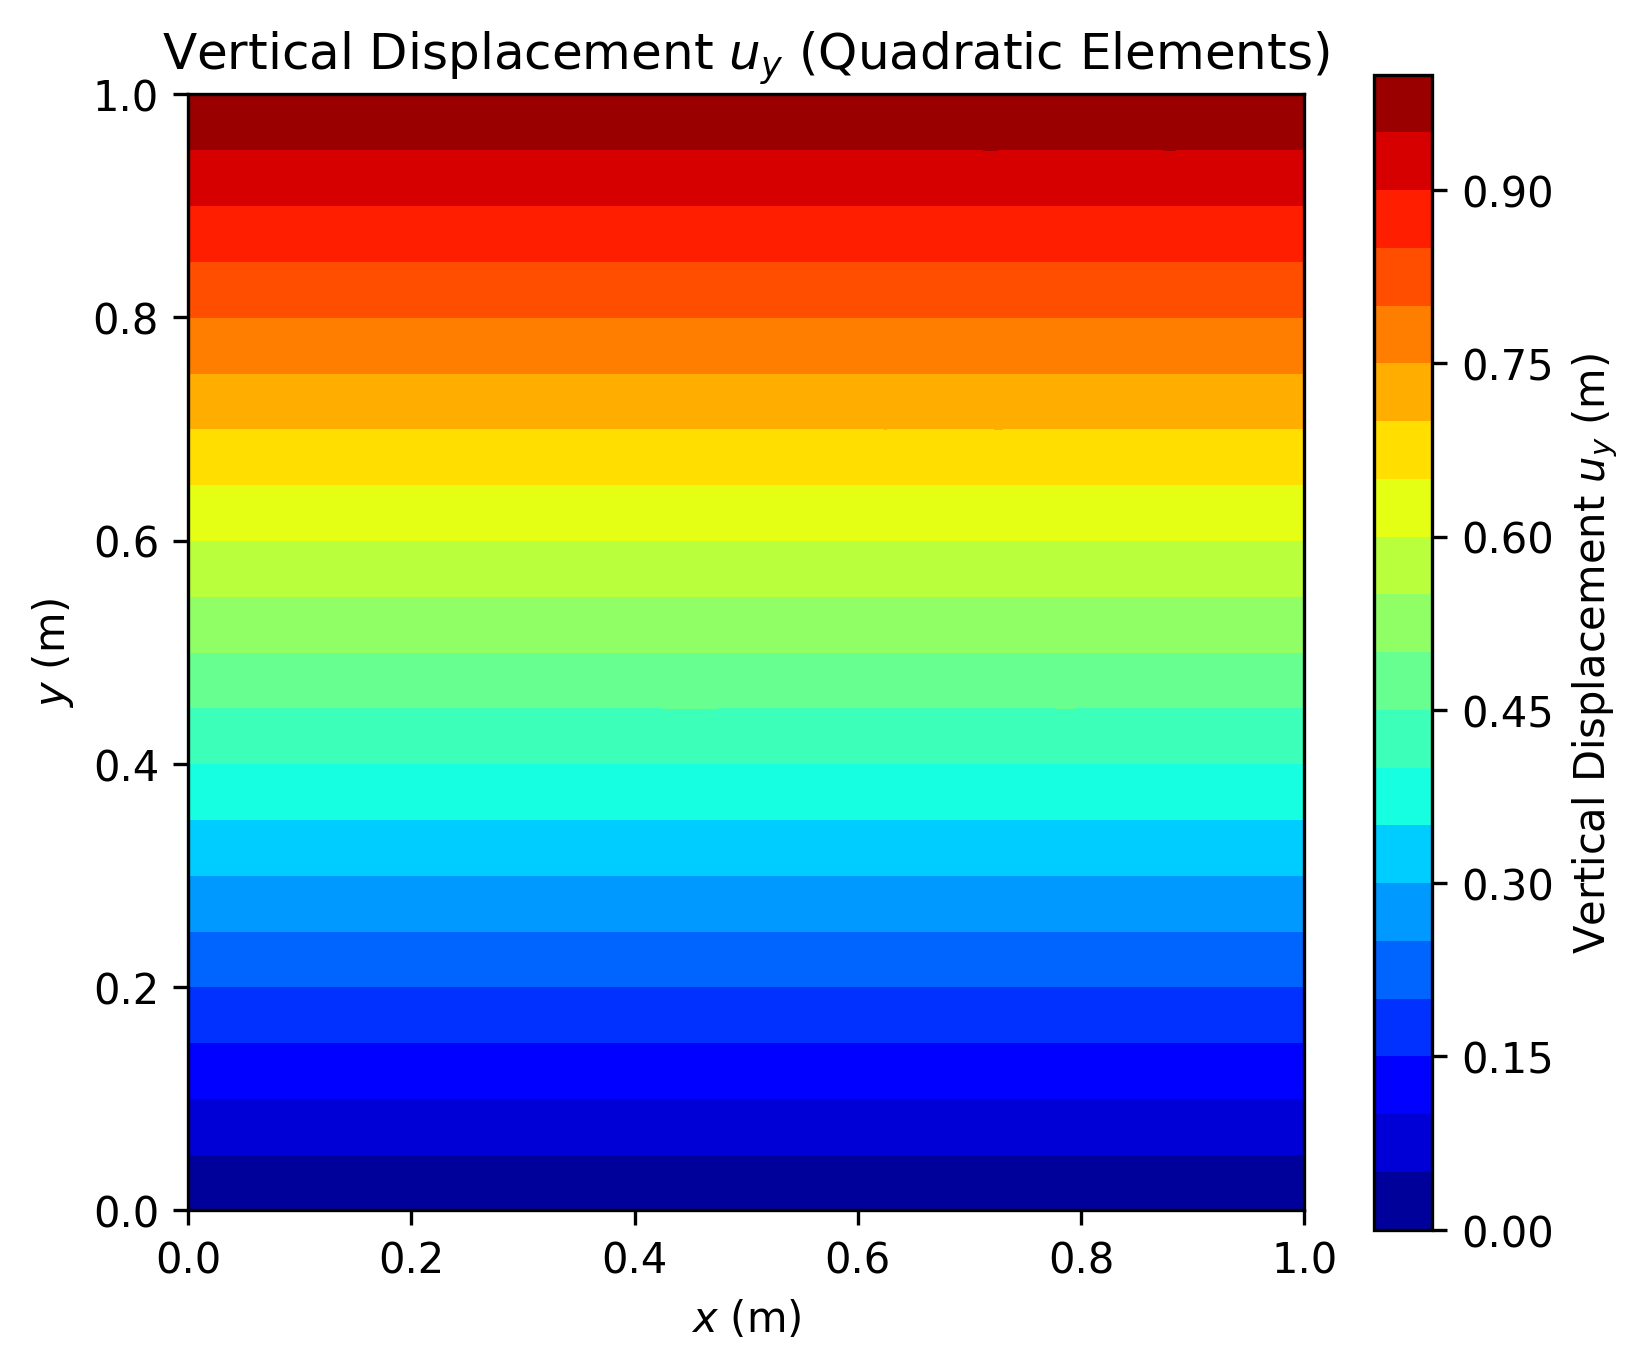
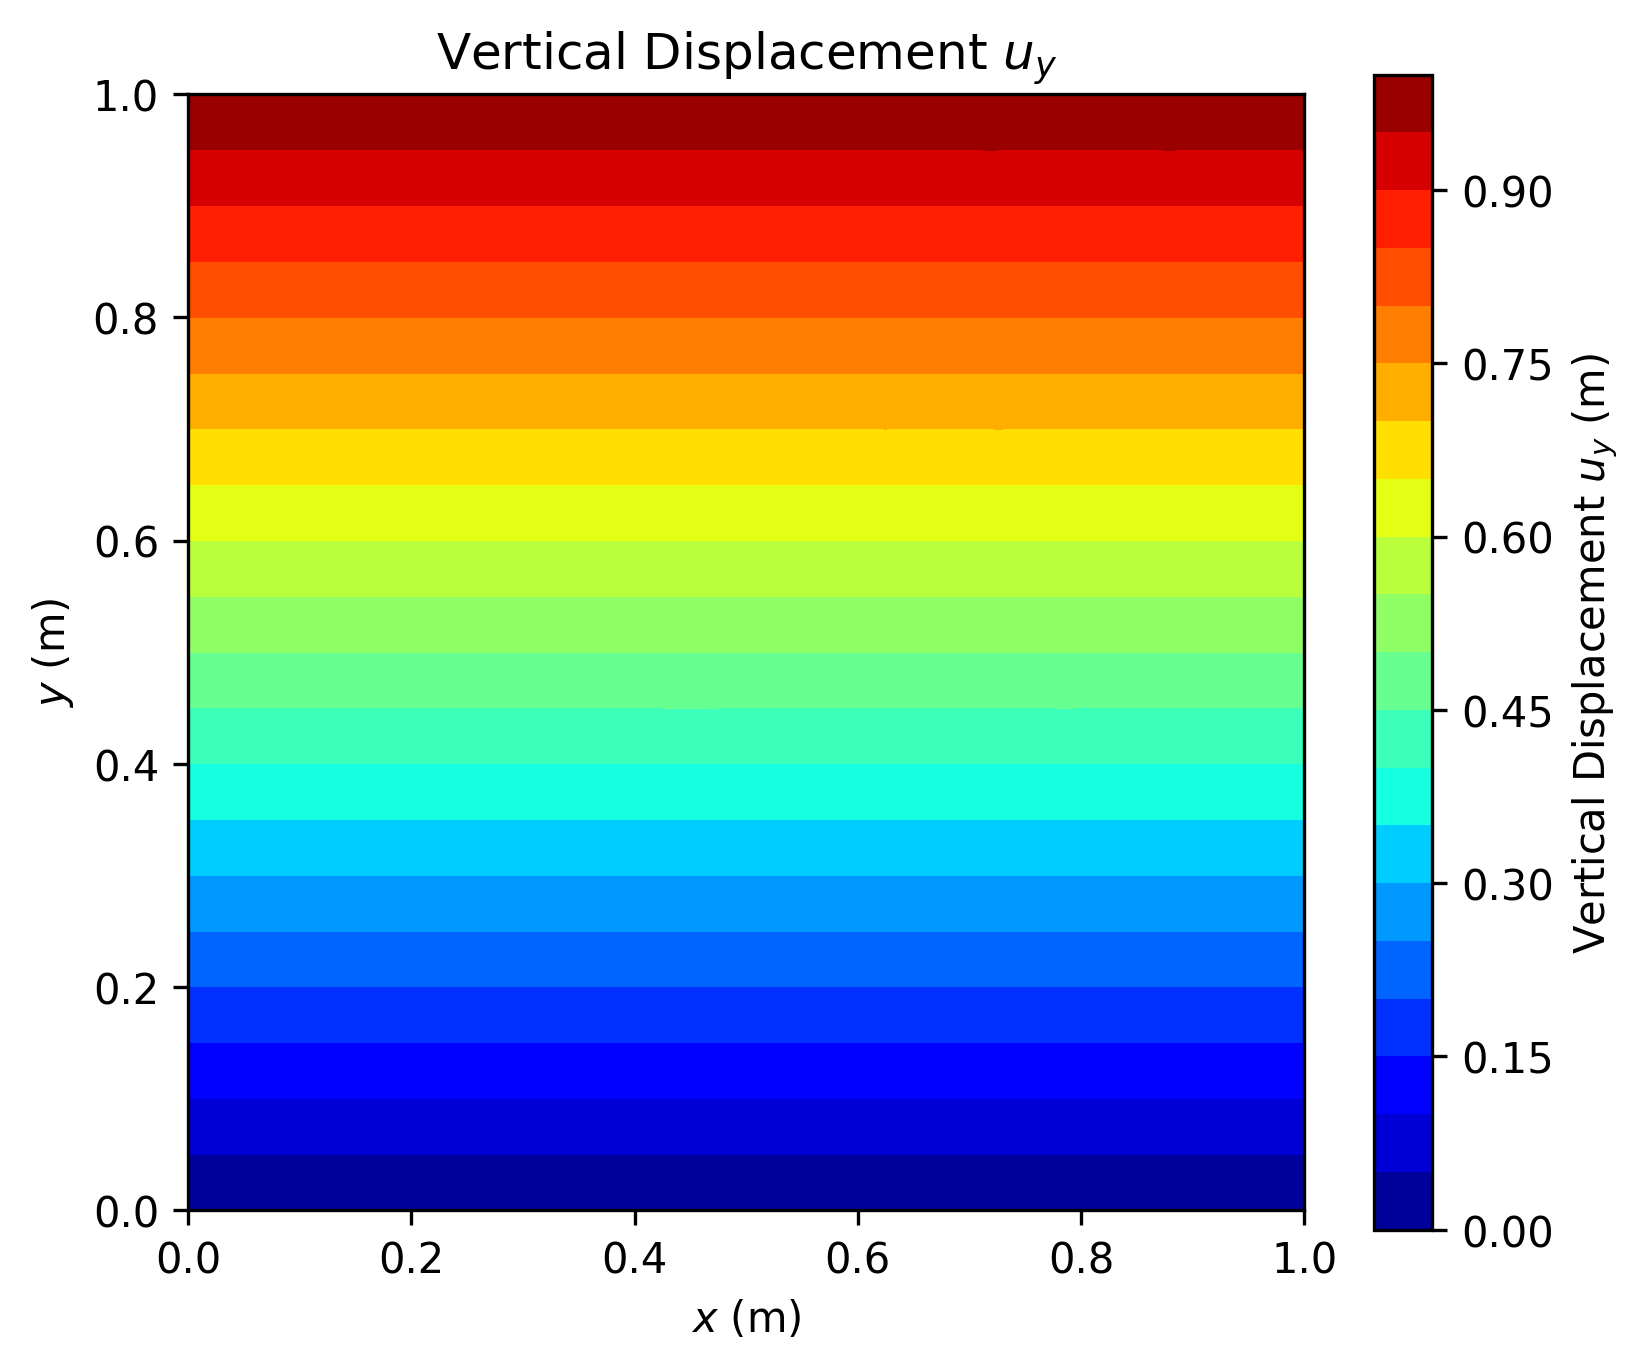
Remove '(Quadratic Elements)' from contour plot titles to avoid overlapping colorbar offset

Changed region(s): [[0.0927, 0.0307, 0.8036, 0.0613]]

diff --git a/posproc.py b/posproc.py
@@ -273,7 +273,7 @@ def export_vtk_and_contours(
     ax1.triplot(triang, color=(0.0, 0.0, 0.0), linewidth=0.4)
     cf1 = ax1.tricontourf(triang, uy_field, levels=20, cmap=cm.jet)
     fig1.colorbar(cf1, ax=ax1, label='Vertical Displacement $u_y$ (m)')
-    ax1.set_title('Vertical Displacement $u_y$ (Quadratic Elements)')
+    ax1.set_title('Vertical Displacement $u_y$')
     ax1.set_xlabel('$x$ (m)')
     ax1.set_ylabel('$y$ (m)')
     ax1.set_aspect('equal')
@@ -287,7 +287,7 @@ def export_vtk_and_contours(
     ax2.triplot(triang, color=(0.0, 0.0, 0.0), linewidth=0.5)
     ax2.plot(coord[:, 0], coord[:, 1], 'ko', markersize=3.5)
     fig2.colorbar(cf2, ax=ax2, label='von Mises Stress $\\sigma_{\\mathrm{vM}}$ (Pa)')
-    ax2.set_title('von Mises Equivalent Stress $\\sigma_{\\mathrm{vM}}$ (Quadratic Elements)')
+    ax2.set_title('von Mises Equivalent Stress $\\sigma_{\\mathrm{vM}}$')
     ax2.set_xlabel('$x$ (m)')
     ax2.set_ylabel('$y$ (m)')
     ax2.set_aspect('equal')
